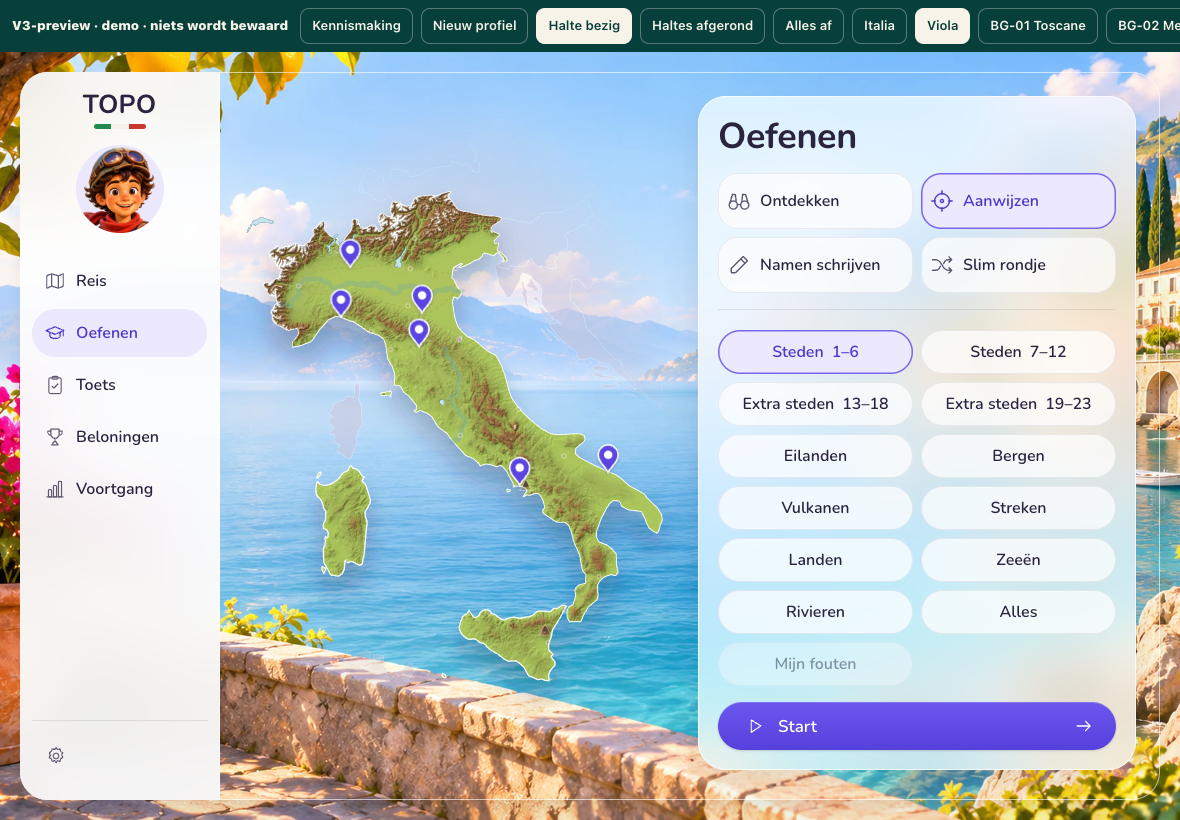
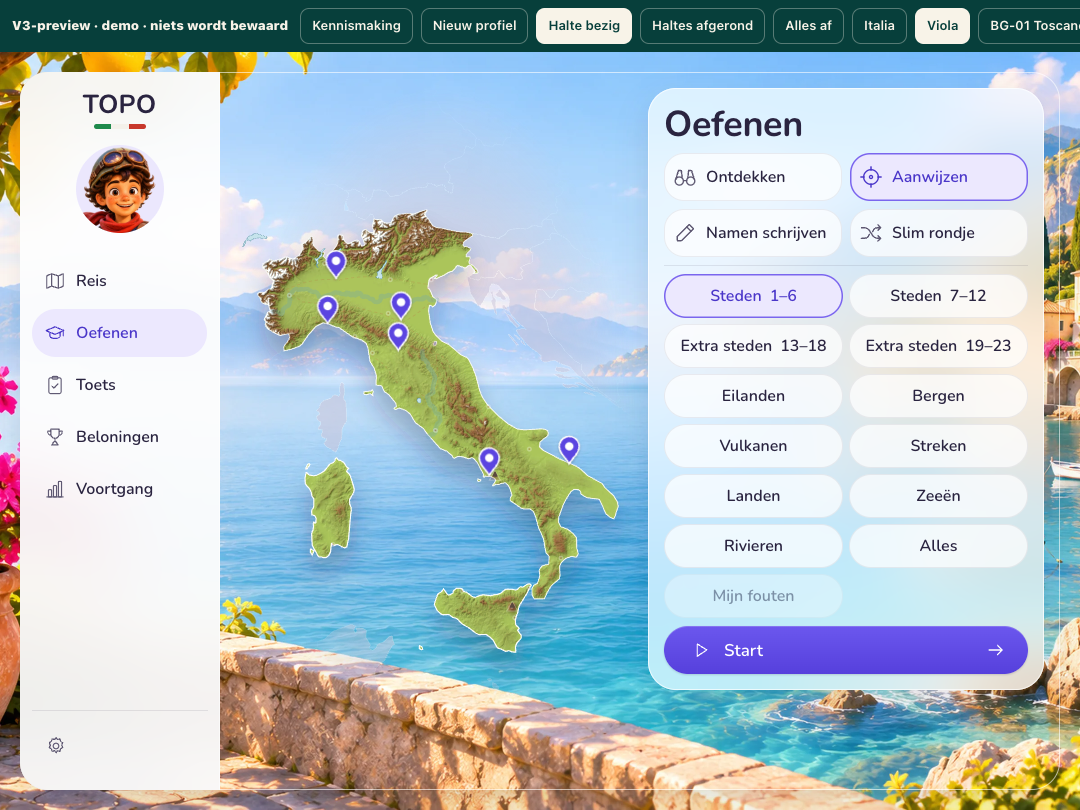
fix(v3): laat Oefenen op iPad zonder scrollen passen (ronde 3 punt 6)

diff --git a/scripts/v3/ronde3.css b/scripts/v3/ronde3.css
@@ -22,3 +22,12 @@
  .v3ToetsSetup .v3FormBtn{padding:8px 6px}
  .v3 :is(.v3Btn,.v3Chip,.v3FormBtn){max-width:100%;overflow-wrap:break-word}
 }
+
+@media(min-width:1024px) and (max-width:1119px){
+ .v3OefPanel{gap:8px;padding:16px;overflow:visible}
+ .v3OefPanel .v3OefGroep{padding-top:8px}
+ .v3OefPanel .v3Chips{gap:6px}
+ .v3OefPanel .v3FormBtn{min-height:48px;padding:6px 8px}
+ .v3OefPanel .v3Chip{min-height:44px}
+ .v3OefPanel .v3Start{margin-top:0}
+}

diff --git a/scripts/qa-v3-ronde3.py b/scripts/qa-v3-ronde3.py
@@ -19,6 +19,11 @@ async def check(p,n,touch):
   assert (await p.locator('.v3Switch button').first.bounding_box())['height']>=44
   await act(p,'.v3MapTools [data-relief=true]',touch)
   assert await p.locator('.v3MapStage .v3Map').get_attribute('data-relief')=='on'
+ if n==6:
+  await q.goto(p,'oefenen')
+  assert await p.locator('.v3OefPanel').evaluate('n=>n.scrollHeight<=n.clientHeight+1 && n.getBoundingClientRect().bottom<=innerHeight')
+  assert not await p.locator('.v3OefPanel button').evaluate_all('ns=>ns.filter(n=>n.scrollWidth>n.clientWidth+1).map(n=>n.textContent)')
+  return 'oefenen'
  if n==5:
   assert await p.locator('html').get_attribute('class')=='v3Ready'
   assert await p.locator('.v3Reis').is_visible()
